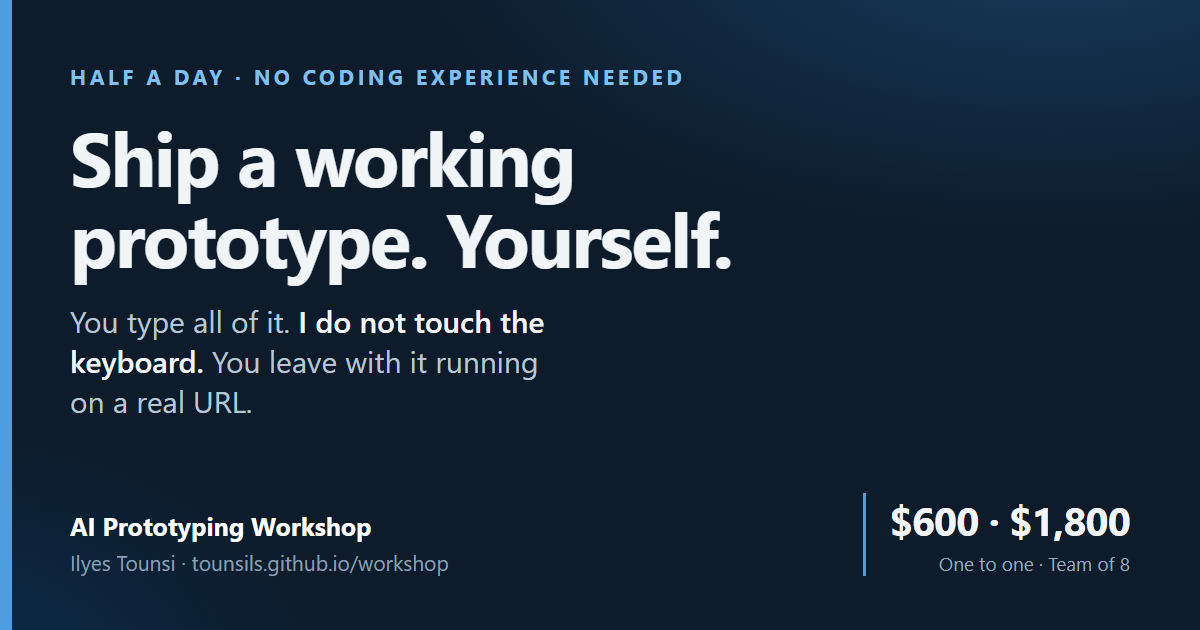
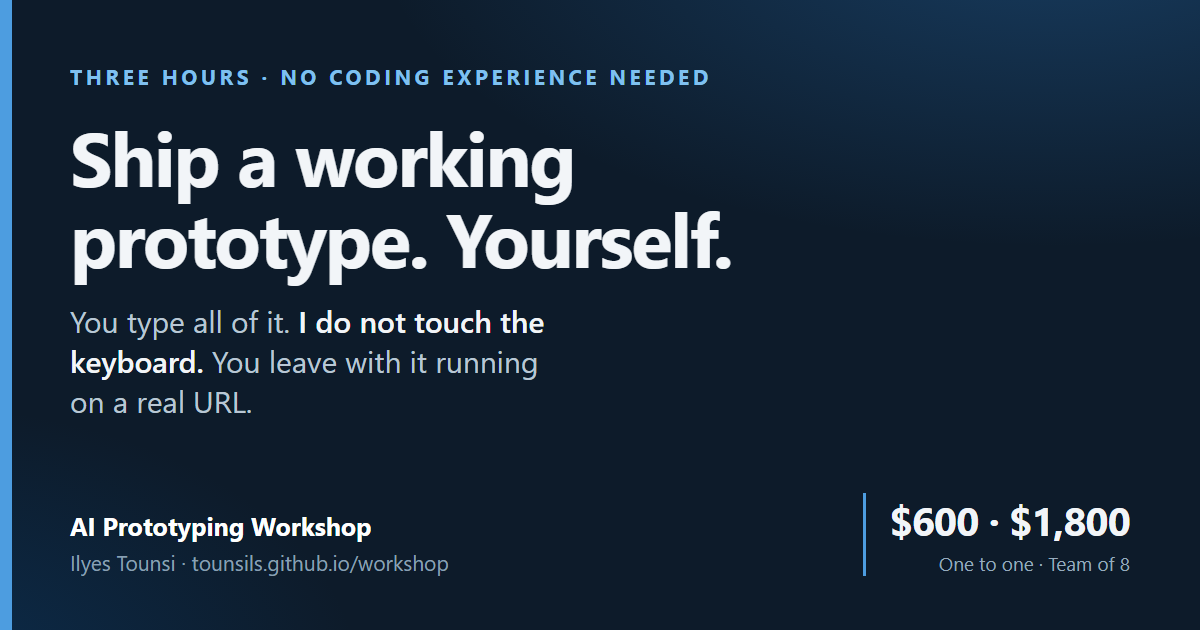
Define the workshop duration and publish the full agenda
"Half a day" was vague and unbuyable. It is three hours with one break, said
plainly everywhere it appears, including the schema workload and the social
card.

Adds a minute-by-minute program table so the page answers what someone gets
for the money instead of describing outcomes and leaving the shape of the
session to the imagination.

Changed region(s): [[0.0617, 0.0905, 0.5858, 0.1508]]

diff --git a/workshop/index.html b/workshop/index.html
@@ -3,12 +3,12 @@
 <head>
 <meta charset="utf-8">
 <meta name="viewport" content="width=device-width,initial-scale=1">
-<title>AI Prototyping Workshop | Build and ship your first prototype in half a day</title>
-<meta name="description" content="Half a day. You leave with a working prototype running on a public URL that you built yourself and can change on Monday. For product managers, founders and operations leads. No coding experience needed.">
+<title>AI Prototyping Workshop | Build and ship your first prototype in three hours</title>
+<meta name="description" content="Three hours. You leave with a working prototype running on a public URL that you built yourself and can change on Monday. For product managers, founders and operations leads. No coding experience needed.">
 <link rel="icon" href="../favicon.ico">
 <link rel="canonical" href="https://tounsils.github.io/workshop/">
 
-<meta property="og:title" content="AI Prototyping Workshop: ship something real in half a day">
+<meta property="og:title" content="AI Prototyping Workshop: ship something real in three hours">
 <meta property="og:description" content="You leave with a working prototype on a live URL that you built yourself. Not a demo you watched. For product managers, founders and ops leads. No coding experience needed.">
 <meta property="og:type" content="website">
 <meta property="og:url" content="https://tounsils.github.io/workshop/">
@@ -18,9 +18,9 @@
 <meta property="og:image:type" content="image/png">
 <meta property="og:image:width" content="1200">
 <meta property="og:image:height" content="630">
-<meta property="og:image:alt" content="AI Prototyping Workshop. Ship a working prototype yourself. Half a day, no coding experience needed. $600 one to one, $1,800 for a team of eight.">
+<meta property="og:image:alt" content="AI Prototyping Workshop. Ship a working prototype yourself. Three hours, no coding experience needed. $600 one to one, $1,800 for a team of eight.">
 <meta name="twitter:card" content="summary_large_image">
-<meta name="twitter:title" content="AI Prototyping Workshop: ship something real in half a day">
+<meta name="twitter:title" content="AI Prototyping Workshop: ship something real in three hours">
 <meta name="twitter:description" content="You leave with a working prototype on a live URL that you built yourself. No coding experience needed.">
 <meta name="twitter:image" content="https://tounsils.github.io/workshop/og.png">
 
@@ -99,6 +99,19 @@ li { margin: .45rem 0; }
 .tier .unit { font-size: .9rem; color: var(--muted); margin: 0 0 .6rem; }
 .tier p { margin: .4rem 0 0; font-size: .95rem; color: var(--muted); }
 
+.table-scroll { overflow-x: auto; margin: 1.2rem 0; }
+table.agenda { width: 100%; border-collapse: collapse; font-size: .96rem; }
+table.agenda th {
+    text-align: left; font-size: .74rem; text-transform: uppercase; letter-spacing: .09em;
+    color: var(--faint); border-bottom: 2px solid var(--rule); padding: 0 .8rem .45rem 0;
+}
+table.agenda td { padding: .8rem .8rem .8rem 0; border-bottom: 1px solid var(--rule); vertical-align: top; }
+table.agenda tr:last-child td { border-bottom: 0; }
+table.agenda td.t {
+    font-variant-numeric: tabular-nums; font-weight: 700; color: var(--accent);
+    white-space: nowrap; width: 4.2rem;
+}
+
 .faq dt { font-weight: 600; margin-top: 1.1rem; }
 .faq dd { margin: .3rem 0 0; color: var(--muted); }
 
@@ -113,7 +126,7 @@ footer {
   "@context": "https://schema.org",
   "@type": "Course",
   "name": "AI Prototyping Workshop",
-  "description": "Half-day hands-on workshop. Attendees build and deploy a working prototype to a public URL using AI coding tools, and leave able to change it on their own.",
+  "description": "Three-hour hands-on workshop. Attendees build and deploy a working prototype to a public URL using AI coding tools, and leave able to change it on their own.",
   "url": "https://tounsils.github.io/workshop/",
   "inLanguage": "en",
   "teaches": ["AI-assisted prototyping", "Cursor", "Reviewing AI-generated code", "Deploying a static site"],
@@ -127,7 +140,7 @@ footer {
   "hasCourseInstance": {
     "@type": "CourseInstance",
     "courseMode": ["Online", "Onsite"],
-    "courseWorkload": "PT4H"
+    "courseWorkload": "PT3H"
   },
   "offers": [
     {
@@ -135,7 +148,7 @@ footer {
       "name": "One to one",
       "price": "600",
       "priceCurrency": "USD",
-      "category": "Half day, one attendee",
+      "category": "Three hours, one attendee",
       "availability": "https://schema.org/InStock"
     },
     {
@@ -143,7 +156,7 @@ footer {
       "name": "Team",
       "price": "1800",
       "priceCurrency": "USD",
-      "category": "Half day, up to 8 attendees",
+      "category": "Three hours, up to 8 attendees",
       "availability": "https://schema.org/InStock"
     }
   ]
@@ -154,9 +167,9 @@ footer {
 
 <header class="hero">
   <div class="wrap">
-    <p class="eyebrow">Half a day &middot; Remote or San Diego &middot; No coding experience needed</p>
+    <p class="eyebrow">Three hours &middot; Remote or San Diego &middot; No coding experience needed</p>
     <h1>Build something real, and leave able to change it</h1>
-    <p class="lede">In half a day you will build a working prototype and put it on a public URL you can send to anyone. You will type all of it. I will not touch the keyboard, because a thing you watched someone else build is worth nothing to you on Monday.</p>
+    <p class="lede">In three hours you will build a working prototype and put it on a public URL you can send to anyone. You will type all of it. I will not touch the keyboard, because a thing you watched someone else build is worth nothing to you on Monday.</p>
     <p class="byline">Run by Ilyes Tounsi &middot; twenty years shipping production software &middot; <a href="https://tounsils.github.io/">tounsils.github.io</a></p>
     <div class="cta-row">
       <a class="btn" href="mailto:tounsils@gmail.com?subject=AI%20Prototyping%20Workshop&amp;body=Hi%20Ilyes%2C%0A%0AI%27d%20like%20to%20book%20the%20workshop.%0A%0AOne-to-one%20or%20team%3A%20%0APreferred%20dates%3A%20%0AWhat%20I%27d%20like%20to%20build%3A%20%0A">Book a session</a>
@@ -174,7 +187,7 @@ footer {
 <p>Job postings have started saying it in plain language. A recent Head of Product listing asked candidates to <em>"prototype and iterate using AI-native tools to go from idea to working demo yourself."</em> That expectation is now normal, and almost nobody teaches the skill.</p>
 
 <div class="pull">
-  <p><strong>You do not need to know how to code.</strong> You will not learn to code either. Half a day does not do that, and anybody promising it is selling something. You will learn to describe what you want, judge whether you got it, and recover when you did not.</p>
+  <p><strong>You do not need to know how to code.</strong> You will not learn to code either. Three hours does not do that, and anybody promising it is selling something. You will learn to describe what you want, judge whether you got it, and recover when you did not.</p>
 </div>
 
 <h2>What you will build</h2>
@@ -182,6 +195,52 @@ footer {
 <p>One small, finished, genuinely useful thing. You bring the idea, or I bring one from your world if you would rather not decide on the day.</p>
 
 <p>It runs in a browser, it lives at a real URL, and you can send that link to a colleague or an interviewer the same afternoon. It is a prototype on purpose: it exists to make a decision cheaper, not to be shipped to customers.</p>
+
+<h2>The program</h2>
+
+<p><strong>Three hours, with one break.</strong> Remote over a video call, or in person around San Diego. Here is the whole thing, minute by minute, so you know exactly what you are buying.</p>
+
+<div class="table-scroll">
+<table class="agenda">
+  <thead><tr><th>Time</th><th>What happens</th></tr></thead>
+  <tbody>
+    <tr>
+      <td class="t">0:00</td>
+      <td><strong>Setup and framing.</strong> Confirm your tools run. What these tools actually are, what they are not, and the one rule for the session: you type everything, including the parts that go wrong.</td>
+    </tr>
+    <tr>
+      <td class="t">0:20</td>
+      <td><strong>Build the first working version.</strong> You describe the user and their situation before you describe any feature, which is the habit that produces better output and happens to be how you should think anyway. Then you send it and watch. Before you accept anything, you read what changed. That single habit is the most transferable thing in the day.</td>
+    </tr>
+    <tr>
+      <td class="t">0:45</td>
+      <td><strong>Find out what it assumed.</strong> It will not ask you a single question, which feels like your description was perfect. It was not. It silently chose a dozen things. You will ask it what it decided, disagree with one, and change it. This is where people stop trusting output on sight.</td>
+    </tr>
+    <tr>
+      <td class="t">1:00</td>
+      <td><strong>Break.</strong> Ten minutes.</td>
+    </tr>
+    <tr>
+      <td class="t">1:10</td>
+      <td><strong>Change it, four or five times, your ideas.</strong> Describe a change, check it, refresh. This loop is the actual skill and everything else is detail. Somewhere in here I will break something without warning you, and you will recover it, because that is what Monday looks like.</td>
+    </tr>
+    <tr>
+      <td class="t">1:50</td>
+      <td><strong>Put it on the internet.</strong> From a file on your laptop to a public URL you can paste into an email. What deploying does and does not mean, and why this version is safe to show people and not safe to run a business on.</td>
+    </tr>
+    <tr>
+      <td class="t">2:20</td>
+      <td><strong>Where it lies to you.</strong> The failure playbook. Real breakages, what they looked like, and the exact wording that recovered each one, including how to check the one number that matters before anybody else sees it.</td>
+    </tr>
+    <tr>
+      <td class="t">2:45</td>
+      <td><strong>What to do on your own, and how to talk about it.</strong> Where to take it next, and how to describe this work to a stakeholder or an interviewer without overclaiming. That last part matters more than people expect.</td>
+    </tr>
+  </tbody>
+</table>
+</div>
+
+<p>For a team session the shape is the same, with everyone building their own thing in parallel rather than one shared project.</p>
 
 <h2>What makes this different</h2>
 
@@ -201,13 +260,13 @@ footer {
   <div class="tier">
     <p class="name">One to one</p>
     <p class="amount">$600</p>
-    <p class="unit">Half day, just you</p>
+    <p class="unit">Three hours, just you</p>
     <p>Your idea, your pace, and time to go deeper on the parts you care about. Best if you are preparing for interviews or have a specific thing to build.</p>
   </div>
   <div class="tier">
     <p class="name">Team</p>
     <p class="amount">$1,800</p>
-    <p class="unit">Half day, up to 8 people</p>
+    <p class="unit">Three hours, up to 8 people</p>
     <p>Private session for one company. Capped at eight, because past that somebody ends up watching, and watching does not work.</p>
   </div>
 </div>
@@ -241,7 +300,7 @@ footer {
   <dd>Not in one session. Eight is the ceiling for a single workshop because everyone has to be building. For larger groups, several sessions.</dd>
 
   <dt>What if I already use these tools a bit?</dt>
-  <dd>Then skip the setup and tell me what keeps going wrong. The failure playbook is the half of the day that experienced users get the most from.</dd>
+  <dd>Then skip the setup and tell me what keeps going wrong. The failure playbook is the part experienced users get the most from.</dd>
 </dl>
 
 <h2>Book it</h2>

diff --git a/fractional/index.html b/fractional/index.html
@@ -375,13 +375,13 @@ footer a { color: var(--muted); }
 <div class="product">
   <div class="price">
     <span class="amount">Fixed fee</span>
-    <span class="term">Half day &middot; quoted on the call</span>
+    <span class="term">Three hours &middot; quoted on the call</span>
     <span class="badge">Everyone leaves with a live URL</span>
   </div>
 
   <p>Your product managers, operations leads and founders are now expected to prototype without waiting on engineering. Job descriptions say it out loud: <em>go from idea to working demo yourself</em>. Almost nobody teaches it, and the free material teaches enthusiasm rather than judgment.</p>
 
-  <p>Half a day, up to eight people, remote or on-site. Everyone builds and ships one working thing.</p>
+  <p>Three hours, up to eight people, remote or on-site. Everyone builds and ships one working thing.</p>
 
   <h4>What you get</h4>
   <ul>
@@ -394,7 +394,7 @@ footer a { color: var(--muted); }
 
   <h4>Explicitly not in scope</h4>
   <ul>
-    <li>Teaching anyone to be an engineer. Half a day does not do that and anybody claiming otherwise is selling something.</li>
+    <li>Teaching anyone to be an engineer. Three hours does not do that and anybody claiming otherwise is selling something.</li>
     <li>Production software. What gets built is a prototype, deliberately. It exists to make a decision cheaper, not to be deployed to customers.</li>
     <li>Me building your prototype for you. That is the Playbook, and it is a different price.</li>
     <li>Tool licences. Bring your own accounts, and note that the mainstream tools require attendees to be 18 or over.</li>
@@ -413,7 +413,7 @@ footer a { color: var(--muted); }
   <tbody>
     <tr><td>MCP-Server Product Playbook</td><td>Fixed fee, quoted once</td><td>6 weeks</td><td>1 active at a time</td></tr>
     <tr><td>Fractional CTO Retainer</td><td>Monthly, cancel anytime</td><td>Month to month</td><td>2 active at a time</td></tr>
-    <tr><td>AI Prototyping Workshop</td><td>Fixed fee per workshop</td><td>Half day</td><td>8 attendees</td></tr>
+    <tr><td>AI Prototyping Workshop</td><td>Fixed fee per workshop</td><td>Three hours</td><td>8 attendees</td></tr>
     <tr><td>Investor or all-hands session</td><td>Per session</td><td>Add-on</td><td>By arrangement</td></tr>
   </tbody>
 </table>
@@ -421,7 +421,7 @@ footer a { color: var(--muted); }
 
 <p><strong>On price.</strong> All three products are fixed and quoted, not hourly and not estimated. I do not publish the numbers, because the right scope is worth establishing before the figure is, and a rate card invites comparison against work that is not the same work. Ask on the first call, or by email, and you get a straight answer in one line with no qualifying dance.</p>
 
-<p><strong>Combined ceiling:</strong> one Playbook plus one Retainer, or two Retainers, or two back-to-back Playbooks. Never two concurrent Playbooks. I would rather turn work away than deliver two sprints badly. Workshops sit outside this ceiling, because half a day does not displace an engagement.</p>
+<p><strong>Combined ceiling:</strong> one Playbook plus one Retainer, or two Retainers, or two back-to-back Playbooks. Never two concurrent Playbooks. I would rather turn work away than deliver two sprints badly. Workshops sit outside this ceiling, because three hours does not displace an engagement.</p>
 
 <h2>The proof: current engagements</h2>
 

diff --git a/index.html b/index.html
@@ -153,7 +153,7 @@ footer {
     </li>
     <li>
       <span class="what"><a href="./workshop/">AI Prototyping Workshop</a></span>
-      <span class="why">Half a day, and you leave with a working prototype on a live URL that you built yourself. For product, founders and operations. No coding experience needed.</span>
+      <span class="why">Three hours, and you leave with a working prototype on a live URL that you built yourself. For product, founders and operations. No coding experience needed.</span>
     </li>
     <li>
       <span class="what"><a href="./resume.html">R&eacute;sum&eacute;</a></span>
